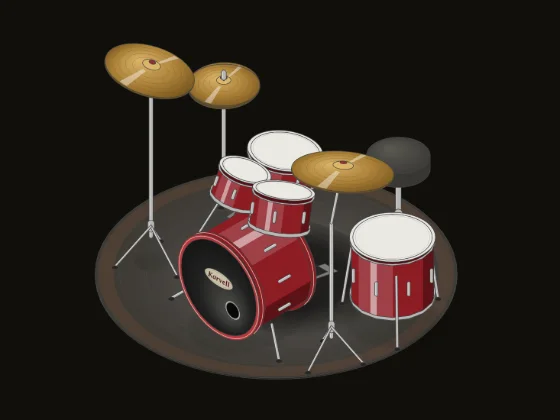
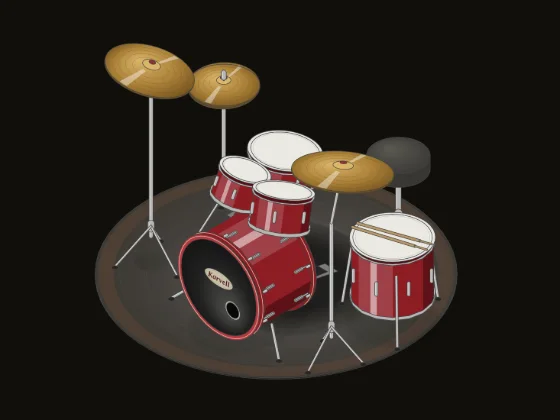
Give the drum kit's kick its rods and claws, and sticks on the floor tom
The kick's lugs now sit by each hoop, with tension rods out to chrome
claws over its wood hoops, so it reads as a bass drum. A pair of sticks
lies across the floor tom's hoop and shakes with it. The hi-hat's pedal
rises as the hat opens and drops as it closes. The description no
longer calls the snare chrome, the parts table matches the drawing, and
the thumbnails, MCP golden and component docs follow.

diff --git a/packages/miniatures/src/figures/drum-kit.ts b/packages/miniatures/src/figures/drum-kit.ts
@@ -4,11 +4,11 @@
  * (FigureModule). */
 import type { FigureEnv, FigureModule } from '../engine/types'
 
-const css = `:root{color-scheme:light dark;--bg:#f4f3ef;--ink:#323232;--muted:#808080;--top:#fafaf8;--body:#e0e0dc;--side:#c7c7c3;--recess:#9d9d99;--line:#626260;--accent:#3b5bfd;--rule:#d6d6d2;--shadow:#262626;--chrome:#d9dad8;--chrome-top:#f4f4f2;--chrome-side:#bdbebc;--shell:#a8232c;--shell-top:#c63a42;--shell-side:#7a1820;--inlay:#f1e6cf;--head:#f1ede2;--head-top:#fbf9f2;--reso:#2a2a29;--port:#0e0e0e;--plate:#efe4c8;--plate-ink:#5b1a1f;--bronze:#cf9d48;--bronze-top:#e9c272;--bronze-side:#a2742c;--stand:#2e2e2d;--pedal:#a5a5a2;--seat:#2b2b2a;--seat-top:#46453f;--rug:#e6dfd0;--rug-side:#cfc6b4;--rug-band:#d7b9a1;--rug-line:#d6ccb9;--felt:#b33a3a;--gloss:.65;--shade:.26}
-@media(prefers-color-scheme:dark){:root{--bg:#1a1917;--ink:#e8e8e8;--muted:#929292;--rule:#32312e;--accent:#617cff;--shadow:#000;--top:#eaeae8;--body:#bdbdba;--side:#8c8c8b;--recess:#6e6e6c;--line:#444443;--chrome:#b7b7b6;--chrome-top:#e4e4e2;--chrome-side:#858585;--shell:#8d1c23;--shell-top:#b9363d;--shell-side:#540d13;--inlay:#cbc2ae;--head:#cac8c1;--head-top:#ebe9e2;--reso:#222221;--port:#080808;--plate:#c9c0a8;--plate-ink:#4a1418;--bronze:#ae843b;--bronze-top:#dab56a;--bronze-side:#71501c;--stand:#252524;--pedal:#7c7c7a;--seat:#383733;--seat-top:#5c5a54;--rug:#3d3a35;--rug-side:#2a2825;--rug-band:#4e3f35;--rug-line:#4a463f;--felt:#962f2f;--gloss:.5;--shade:.34}svg{--ink:#282828;--muted:#6b6b6b}}
+const css = `:root{color-scheme:light dark;--bg:#f4f3ef;--ink:#323232;--muted:#808080;--top:#fafaf8;--body:#e0e0dc;--side:#c7c7c3;--recess:#9d9d99;--line:#626260;--accent:#3b5bfd;--rule:#d6d6d2;--shadow:#262626;--chrome:#d9dad8;--chrome-top:#f4f4f2;--chrome-side:#bdbebc;--shell:#a8232c;--shell-top:#c63a42;--shell-side:#7a1820;--inlay:#f1e6cf;--head:#f1ede2;--head-top:#fbf9f2;--reso:#2a2a29;--port:#0e0e0e;--plate:#efe4c8;--plate-ink:#5b1a1f;--bronze:#cf9d48;--bronze-top:#e9c272;--bronze-side:#a2742c;--stand:#2e2e2d;--pedal:#a5a5a2;--seat:#2b2b2a;--seat-top:#46453f;--rug:#e6dfd0;--rug-side:#cfc6b4;--rug-band:#d7b9a1;--rug-line:#d6ccb9;--felt:#b33a3a;--wood:#dcb47c;--gloss:.65;--shade:.26}
+@media(prefers-color-scheme:dark){:root{--bg:#1a1917;--ink:#e8e8e8;--muted:#929292;--rule:#32312e;--accent:#617cff;--shadow:#000;--top:#eaeae8;--body:#bdbdba;--side:#8c8c8b;--recess:#6e6e6c;--line:#444443;--chrome:#b7b7b6;--chrome-top:#e4e4e2;--chrome-side:#858585;--shell:#8d1c23;--shell-top:#b9363d;--shell-side:#540d13;--inlay:#cbc2ae;--head:#cac8c1;--head-top:#ebe9e2;--reso:#222221;--port:#080808;--plate:#c9c0a8;--plate-ink:#4a1418;--bronze:#ae843b;--bronze-top:#dab56a;--bronze-side:#71501c;--stand:#252524;--pedal:#7c7c7a;--seat:#383733;--seat-top:#5c5a54;--rug:#3d3a35;--rug-side:#2a2825;--rug-band:#4e3f35;--rug-line:#4a463f;--felt:#962f2f;--wood:#b99768;--gloss:.5;--shade:.34}svg{--ink:#282828;--muted:#6b6b6b}}
 .face{fill:var(--body);stroke:var(--line);stroke-width:1;vector-effect:non-scaling-stroke;stroke-linejoin:round}.top{fill:var(--top)}.side{fill:var(--side,var(--body))}.recess{fill:var(--recess)}.detail{fill:none;stroke:var(--line);stroke-width:.65;vector-effect:non-scaling-stroke;stroke-linecap:round;stroke-linejoin:round}.shadow{fill:var(--shadow);opacity:.075;filter:url(#soft)}
 .chrome{fill:var(--chrome)}.top.chrome{fill:var(--chrome-top)}.side.chrome{fill:var(--chrome-side)}.shell{fill:var(--shell)}.top.shell{fill:var(--shell-top)}.side.shell{fill:var(--shell-side)}.head{fill:var(--head-top)}.inside{fill:var(--shell-side)}.reso{fill:url(#resoG)}.port{fill:var(--port)}.plate{fill:var(--plate)}
-.bronze{fill:var(--bronze)}.top.bronze{fill:var(--bronze-top)}.side.bronze{fill:var(--bronze-side)}.disk{fill:url(#bronzeG)}.stand{fill:var(--stand)}.pedal{fill:var(--pedal)}.seat{fill:var(--seat)}.cushion{fill:url(#seatG)}.felt{fill:var(--felt)}
+.bronze{fill:var(--bronze)}.top.bronze{fill:var(--bronze-top)}.side.bronze{fill:var(--bronze-side)}.disk{fill:url(#bronzeG)}.stand{fill:var(--stand)}.pedal{fill:var(--pedal)}.seat{fill:var(--seat)}.cushion{fill:url(#seatG)}.felt{fill:var(--felt)}.wood{fill:var(--wood)}
 .rug{fill:var(--rug)}.side.rug{fill:var(--rug-side)}.band{fill:var(--rug-band);stroke:none}.weave{fill:none;stroke:var(--rug-line);stroke-width:.8;vector-effect:non-scaling-stroke}.inlay{fill:none;stroke:var(--inlay);stroke-width:1.1;vector-effect:non-scaling-stroke;stroke-linecap:round}
 .gloss{fill:#fff;opacity:calc(var(--gloss)*.32);pointer-events:none}.glint{fill:#fff;opacity:var(--gloss);pointer-events:none}.dark{fill:#000;opacity:var(--shade);pointer-events:none}.hi{fill:none;stroke:#fff;stroke-width:.7;stroke-linecap:round;opacity:.8;vector-effect:non-scaling-stroke;pointer-events:none}.sheen{fill:#fff;pointer-events:none}.lathe{fill:none;stroke:var(--bronze-side);stroke-width:.4;vector-effect:non-scaling-stroke;opacity:.75;pointer-events:none}
 .ring{fill:none;stroke:var(--line);stroke-width:.45;vector-effect:non-scaling-stroke;opacity:.4}.dimple{fill:#000;opacity:0;pointer-events:none}.ripple{fill:none;stroke:var(--line);stroke-width:.7;vector-effect:non-scaling-stroke;opacity:0;pointer-events:none}.ripple.lt{stroke:#fff}
@@ -25,16 +25,16 @@ const{document,window,matchMedia,requestAnimationFrame,kit}=env;
 /* KARVELL S–5 acoustic drum kit, seen from the audience's side. World: x lower-right (the drummer's right); y lower-left
 (toward the audience: the kick's logo head faces +y); z up. 1 unit ≈ 1 cm.
 Part                        x      y      z      size
-rug (round, woven)        −14    −38      0     r 100 × .8, border band r 89–100
-hi-hat                    −66    −44     84     r 17.6 pair on a pedal stand; the top one rides the pull rod (+4.6 open)
-stool                      10   −102     45     seat r 15.5 × 8 on a column and tripod
-snare (chrome shell)      −26    −56     46     r 17.6 × 13, tilted to the drummer, on a basket stand
-crash                     −74    −10    117     r 22.5 on a straight stand, tilted to the drummer
+rug (round, woven)        −16    −36      0     r 88 × .8, border band r 79–86.6
+hi-hat                    −62    −46     84     r 17.6 pair on a pedal stand; the top one rides the pull rod (+4.6 open)
+stool                       8    −96     45     seat r 15.5 × 8 on a column and tripod
+snare                     −28    −52     46     r 17.6 × 13, tilted to the drummer, on a basket stand
+crash                     −66      0    117     r 22.5 on a straight stand, tilted to the drummer
 kick pedal                  0    −58…−20   0     footboard, posts, beater (r 2.4 felt) on its axle at z 16
-floor tom                  50    −50     14     r 20 × 34 on three legs
-kick                        0    −19…19  28.2   r 26.5 × 38, wood hoops r 28.2; front head with the plate and a port
+floor tom                  50    −50     14     r 20 × 34 on three legs, a pair of sticks across its hoop
+kick                        0    −19…19  28.2   r 26.5 × 38, wood hoops r 28.2, lugs by each hoop with rods and claws; front head with the plate and a port
 rack toms             −14/16     −6    61/60    r 12.2 × 16 / r 14.4 × 18 on the kick's holder, tilted to the drummer
-ride                       42    −24     99     r 25 on a boom stand from (58, −6)
+ride                       42    −24     99     r 25 on a boom stand from (54, −4)
 Heads dip and ring; cymbals wobble on their felts; the hi-hat opens and closes; the beater swings. */
 const draw=document.getElementById('drawing');let root=draw;
 const{P,set,el,group,circle,text,frame}=kit(()=>root);
@@ -70,8 +70,12 @@ const fv=atan2(dot(VW,V),dot(VW,U))/RAD,fh=atan2(dot(HV,V),dot(HV,U))/RAD,off=a=
 const HOOPS=[[add(c,mul(n,-.5)),add(c,mul(n,hw-.5))],[add(c1,mul(n,-hw)),add(c1,mul(n,.4))]];for(const[a,b]of HOOPS)tube(a,b,hr,hoop);
 tube(c,c1,r,o.fin||'shell');
 band(c,c1,U,V,r,fe,fe+(fe>fv?-42:42),'dark');band(c,c1,U,V,r,fh-28,fh+28,'gloss');band(c,c1,U,V,r,fh-5,fh+5,'glint');
-for(let k=0;k<(o.lugs||0);k++){const a=(k+.5)/o.lugs*2*PI,w=add(mul(U,cos(a)),mul(V,sin(a)));if(dot(w,VW)<.45)continue;const s=add(c,mul(w,r+.55)),l=Math.min(h*.13,3.4);tube(add(s,mul(n,h/2-l)),add(s,mul(n,h/2+l)),.95,'chrome');}
+const claws=[];for(let k=0;k<(o.lugs||0);k++){const a=(k+.5)/o.lugs*2*PI,w=add(mul(U,cos(a)),mul(V,sin(a)));if(dot(w,VW)<.45)continue;const s=add(c,mul(w,r+.55)),l=Math.min(h*.13,3.4),on=(d,e=r+.55)=>add(c,add(mul(n,d),mul(w,e)));
+if(!o.rods){tube(add(s,mul(n,h/2-l)),add(s,mul(n,h/2+l)),.95,'chrome');continue;}
+// A bass drum's lugs sit by each hoop, their tension rods running out to claws over the hoops.
+for(const[m,e,f]of[[h*.24,hw-.5,hw+1.2],[h*.76,h-hw,h-hw-1.7]]){tube(on(m-2.2),on(m+2.2),1,'chrome');tube(on(m+(e>m?-2.2:2.2)),on(e),.42,'chrome');claws.push([on(e,hr+.2),on(f,hr+.2)]);}}
 for(const[a,b]of HOOPS){band(a,b,U,V,hr,fv-90,fv+90,'face '+hoop);if(o.inlay)el('path',{d:path(ring(add(a,mul(n,hw/2)),U,V,hr,fv-84,fv+84,24),false),class:'inlay'});}
+for(const[a,b]of claws)tube(a,b,.8,'chrome');
 const tp=add(c1,mul(n,.4)),pl=plane(tp,U,V);el('path',{d:path(ring(add(c1,mul(n,-1.4)),U,V,r)),class:'face inside'});
 const dip=el('g',{},sh),hd=group(pl,dip);circle(hd,0,0,r-.1,'face '+(o.head||'head'));if(!o.g)circle(hd,0,0,r*.9,'ring');
 const dim=circle(hd,0,0,r*.5,'dimple'),rips=[0,1].map(()=>circle(hd,0,0,1,'ripple'+(o.head?' lt':'')));
@@ -106,7 +110,7 @@ for(const[x,y,a,b]of[[2,0,24,34],[52,-48,23,23],[10,-94,15,15],[-26,-50,14,14],[
 
 // The hi-hat: its pedal and stand, the pull rod, the bottom cymbal and the top one on the clutch.
 const hatG=ctl(el('g',{}),'Hi-hat (H, or O to open it)');into(hatG);
-const HX=-62,HY=-46;el('path',{d:path([[HX-4,HY-6,1.6],[HX+4,HY-6,1.6],[HX+4,HY-30,4.6],[HX-4,HY-30,4.6]]),class:'face pedal'});el('path',{d:path([[HX-3,HY-11,2.4],[HX+3,HY-11,2.4],[HX+3,HY-26,4.3],[HX-3,HY-26,4.3]]),class:'face stand'});
+const HX=-62,HY=-46,hatBoard=el('path',{class:'face pedal'}),hatTread=el('path',{class:'face stand'});
 stand(HX,HY,20,16,-20,80);
 const HB=cymbal({g:el('g',{}),c:[HX,HY,84],n0:[.03,.06,1],R:17.6,k:1}),hatRod=el('path',{class:'face chrome'}),HT=cymbal({g:el('g',{}),c:[HX,HY,86.8],n0:[0,0,1],R:17.6,k:-1.8,bell:1,ring:1}),HAT=[HB,HT];
 const rodTop=el('path',{class:'face chrome'}),clutch=el('g',{});into(clutch);tube([HX,HY,89.4],[HX,HY,92.4],1.5,'chrome',true);into(draw);
@@ -127,7 +131,7 @@ const board=el('path',{class:'face pedal'}),tread=el('path',{class:'face stand'}
 for(const x of[-6,6])tube([x,-25,0],[x,-25,19],.9,'chrome',true);tube([-6,-25,16],[6,-25,16],.6,'chrome');
 const shaft=el('path',{class:'face chrome'}),ball=el('ellipse',{rx:2.6,ry:2.6,class:'face felt'});
 into(kickG);tube([-25,8,13],[-37,15,1.2],.8,'chrome');foot(-37,15);
-const KK=drum({g:kickG,c:[0,-19,28.2],n:[0,1,0],h:38,r:26.5,hd:1.7,hw:3.6,hoop:'shell',inlay:1,lugs:10,head:'reso'});
+const KK=drum({g:kickG,c:[0,-19,28.2],n:[0,1,0],h:38,r:26.5,hd:1.7,hw:3.6,hoop:'shell',inlay:1,lugs:10,rods:1,head:'reso'});
 // The front head's plane runs right to left and upward; the plate and port are drawn the right way round in it.
 const LG=el('g',{},KK.hd);set(LG,'transform','matrix(-1 0 0 -1 0 0)');circle(LG,9.5,9,5.1,'face chrome');circle(LG,9.5,9,4.2,'face port');
 el('ellipse',{cx:0,cy:-5,rx:9.6,ry:4.4,class:'face plate'},LG);el('ellipse',{cx:0,cy:-5,rx:8.6,ry:3.5,class:'ring'},LG);text(LG,0,-3.4,'Karvell','logo');
@@ -136,7 +140,9 @@ into(kickG);tube([25,8,13],[37,15,1.2],.8,'chrome');foot(37,15);into(draw);
 const FT_LEGS=[40,160,280].map(a=>[cos(a*RAD),sin(a*RAD)]),ftLeg=([u,v])=>{tube([50+u*21.4,-50+v*21.4,40],[50+u*27,-50+v*27,1.2],.75,'chrome');foot(50+u*27,-50+v*27);};
 FT_LEGS.filter(([u,v])=>u+v<0).forEach(ftLeg);
 const FT=drum({c:[50,-50,14],n:[0,0,1],h:34,r:20,lugs:8,label:'Floor tom (F)'});
-into(FT.g);FT_LEGS.filter(([u,v])=>u+v>=0).forEach(ftLeg);into(draw);
+into(FT.g);FT_LEGS.filter(([u,v])=>u+v>=0).forEach(ftLeg);
+// A pair of sticks laid across its hoop: they shake with it.
+into(FT.sh);for(const[a,b]of[[[31,-41.5,49.2],[70,-53.5,49.2]],[[30.5,-45.5,49.2],[68.5,-58.5,49.2]]]){const t=add(a,mul(sub(b,a),.84));tube(a,t,.8,'wood');tube(t,b,.5,'wood');}into(draw);
 // The rack toms on the kick's holder.
 tube([0,-3,56],[0,-3,65],1.2,'chrome',true);
 const T1=drum({c:[-14,-6,61.5],n:unit([.12,-.3,.95]),h:16,r:12.2,lugs:6,label:'High tom (T)'});
@@ -196,6 +202,9 @@ function head(d,red,t,sign=1){const x=red?0:d.x,px=-d.pn[0]*x*sign,py=-d.pn[1]*x
 function beater(t,red){const p=red?1:clamp((t-kickT)/40),q=red?1:clamp((t-kickT-40)/190),a=red?-38:p<1?-38+50*p:12-50*(1-(1-q)**3),b=[0,-25+17*sin(a*RAD),16+17*cos(a*RAD)],key=f2(a);if(key===beater.k)return;beater.k=key;
 rod(shaft,[0,-25,16],b,.5);const q2=P(...b);set(ball,'cx',f2(q2[0]));set(ball,'cy',f2(q2[1]));
 const toe=7-2.6*(a+38)/50;set(board,'d',path([[-4.5,-58,1.4],[4.5,-58,1.4],[4.5,-30,toe],[-4.5,-30,toe]]));set(tread,'d',path([[-3.5,-52,2.4+(toe-1.4)*.21],[3.5,-52,2.4+(toe-1.4)*.21],[3.5,-34,toe-.6],[-3.5,-34,toe-.6]]));}
+// The hi-hat's pull rod and clutch ride with the top cymbal; its pedal's toe rises as it opens.
+function hatParts(){const L=HT.lift,k=f2(L);if(k===hatParts.k)return;hatParts.k=k;const toe=2.6+L*.74,z=(y,dz=0)=>1.6+(toe-1.6)*(y-HY+30)/24+dz,quad=(w,y0,y1,dz)=>path([[HX-w,y0,z(y0,dz)],[HX+w,y0,z(y0,dz)],[HX+w,y1,z(y1,dz)],[HX-w,y1,z(y1,dz)]]);
+rod(hatRod,[HX,HY,84],[HX,HY,88+L],.5);rod(rodTop,[HX,HY,88+L],[HX,HY,93+L],.5);set(clutch,'transform',`translate(0 ${f2(-L)})`);set(hatBoard,'d',quad(4,HY-30,HY-6,0));set(hatTread,'d',quad(3,HY-26,HY-11,.35));}
 function ui(t){const r=`${bpm} BPM · LAST HIT ${lastHit<0?'—':NAME[lastHit]}`,s=t<noteT?note:playing?`GROOVE · BAR ${step<0?1:(step>>4)+1} · BEAT ${step<0?1:((step&15)>>2)+1}`:hatOpen?'HI-HAT OPEN / H CLOSES IT':'READY / SPACE PLAYS THE GROOVE';
 if(r+s!==outKey){outKey=r+s;readout.textContent=r;stateLabel.textContent=s;}}
 function tick(t){const dt=Math.min(.05,(t-(last||t))/1000),red=reduced.matches;last=t;
@@ -205,7 +214,7 @@ for(const d of DR){if(red){d.x=d.v=0;}else spring(d,63,.14,dt);head(d,red,t);}
 if(red){KK.x=KK.v=0;}else spring(KK,50,.2,dt);head(KK,red,t,-1);beater(t,red);
 const lt=hatOpen?4.6:0;if(red){HAT[1].lift=lt;hatV=0;}else{for(let s=dt;s>1e-6;s-=H){const h=Math.min(H,s);hatV+=(-38*38*(HAT[1].lift-lt)-2*.5*38*hatV)*h;HAT[1].lift+=hatV*h;if(HAT[1].lift<0){HAT[1].lift=0;hatV=Math.abs(hatV)*.18;}}}
 for(const[cy,w,z]of[[CR,13.2,.07],[RI,16.3,.08],[HAT[0],24,.2],[HAT[1],hatOpen?20:24,hatOpen?.1:.2]]){if(red){cy.a=[0,0];cy.v=[0,0];}else wobble(cy,w,z,dt);pose(cy);}
-const top=f2(HT.lift);if(top!==tick.top){tick.top=top;rod(hatRod,[HX,HY,84],[HX,HY,88+HT.lift],.5);rod(rodTop,[HX,HY,88+HT.lift],[HX,HY,93+HT.lift],.5);set(clutch,'transform',`translate(0 ${f2(-HT.lift)})`);}
+hatParts();
 ui(performance.now());requestAnimationFrame(tick);}
 // Input: the letters hit, Space plays or stops the groove, the arrows set its tempo; every part is a button too.
 document.addEventListener('keydown',e=>{if(e.ctrlKey||e.metaKey||e.altKey||e.defaultPrevented)return;const k=e.key.length===1?e.key.toLowerCase():e.key;
@@ -213,7 +222,7 @@ if(k==='ArrowUp'||k==='ArrowDown'||k==='ArrowLeft'||k==='ArrowRight'){e.preventD
 if(e.repeat)return;if(k===' '){if(e.target.closest&&e.target.closest('[role=button]'))return;e.preventDefault();groove();return;}
 const i=KEYS.indexOf(k);if(i>=0&&k.length===1){e.preventDefault();hit(i);}});
 bind(kickG,()=>hit(0));DR.forEach((d,i)=>bind(d.g,()=>hit(i+1)));bind(hatG,()=>hit(hatOpen?6:5));bind(crashG,()=>hit(7));bind(rideG,()=>hit(8));bind(stool,groove);
-ui(performance.now());requestAnimationFrame(tick);
+hatParts();beater(0,true);ui(performance.now());requestAnimationFrame(tick);
 }
 
 export const figure: FigureModule = { css, defs, hints: [], draw }

diff --git a/packages/miniatures/src/meta/drum-kit.ts b/packages/miniatures/src/meta/drum-kit.ts
@@ -10,7 +10,7 @@ export const drumKit = {
   spec: 'S–5 / 22" KICK · 14" SNARE · 14" HATS · 18" CRASH · 20" RIDE',
   label: 'Acoustic drum kit, KARVELL S–5',
   description:
-    'A lacquered drum kit on a round rug: a kick drum with the maker’s plate on its front head, a chrome snare, rack toms on the kick, a floor tom, a hi-hat on its pedal stand, crash and ride cymbals on their stands, and the stool. Press a key or click a drum to hit it: heads dip and ring, the kick pedal thumps, cymbals wobble on their felts and the hi-hat opens and closes. Space plays an original groove, the arrows set its tempo, and the readout shows the tempo and the last hit.',
+    'A lacquered drum kit on a round rug: a kick drum with the maker’s plate on its front head, a snare, rack toms on the kick, a floor tom, a hi-hat on its pedal stand, crash and ride cymbals on their stands, and the stool. Press a key or click a drum to hit it: heads dip and ring, the kick pedal thumps, cymbals wobble on their felts and the hi-hat opens and closes. Space plays an original groove, the arrows set its tempo, and the readout shows the tempo and the last hit.',
   keys: [
     { keys: ['k'], caps: ['K'], label: 'kick' },
     { keys: ['s'], caps: ['S'], label: 'snare' },

diff --git a/packages/miniatures/src/drum-kit.tsx b/packages/miniatures/src/drum-kit.tsx
@@ -12,7 +12,7 @@ export interface MiniatureDrumKitProps extends MiniatureProps {
 }
 
 /**
- * KARVELL S–5, acoustic drum kit. A lacquered drum kit on a round rug: a kick drum with the maker’s plate on its front head, a chrome snare, rack toms on the kick, a floor tom, a hi-hat on its pedal stand, crash and ride cymbals on their stands, and the stool. Press a key or click a drum to hit it: heads dip and ring, the kick pedal thumps, cymbals wobble on their felts and the hi-hat opens and closes. Space plays an original groove, the arrows set its tempo, and the readout shows the tempo and the last hit.
+ * KARVELL S–5, acoustic drum kit. A lacquered drum kit on a round rug: a kick drum with the maker’s plate on its front head, a snare, rack toms on the kick, a floor tom, a hi-hat on its pedal stand, crash and ride cymbals on their stands, and the stool. Press a key or click a drum to hit it: heads dip and ring, the kick pedal thumps, cymbals wobble on their felts and the hi-hat opens and closes. Space plays an original groove, the arrows set its tempo, and the readout shows the tempo and the last hit.
  *
  * Keys: K kick · S snare · T Y F toms · H O hi-hat closed / open · C R crash / ride · Space groove · ↑ ↓ ← → tempo.
  */
